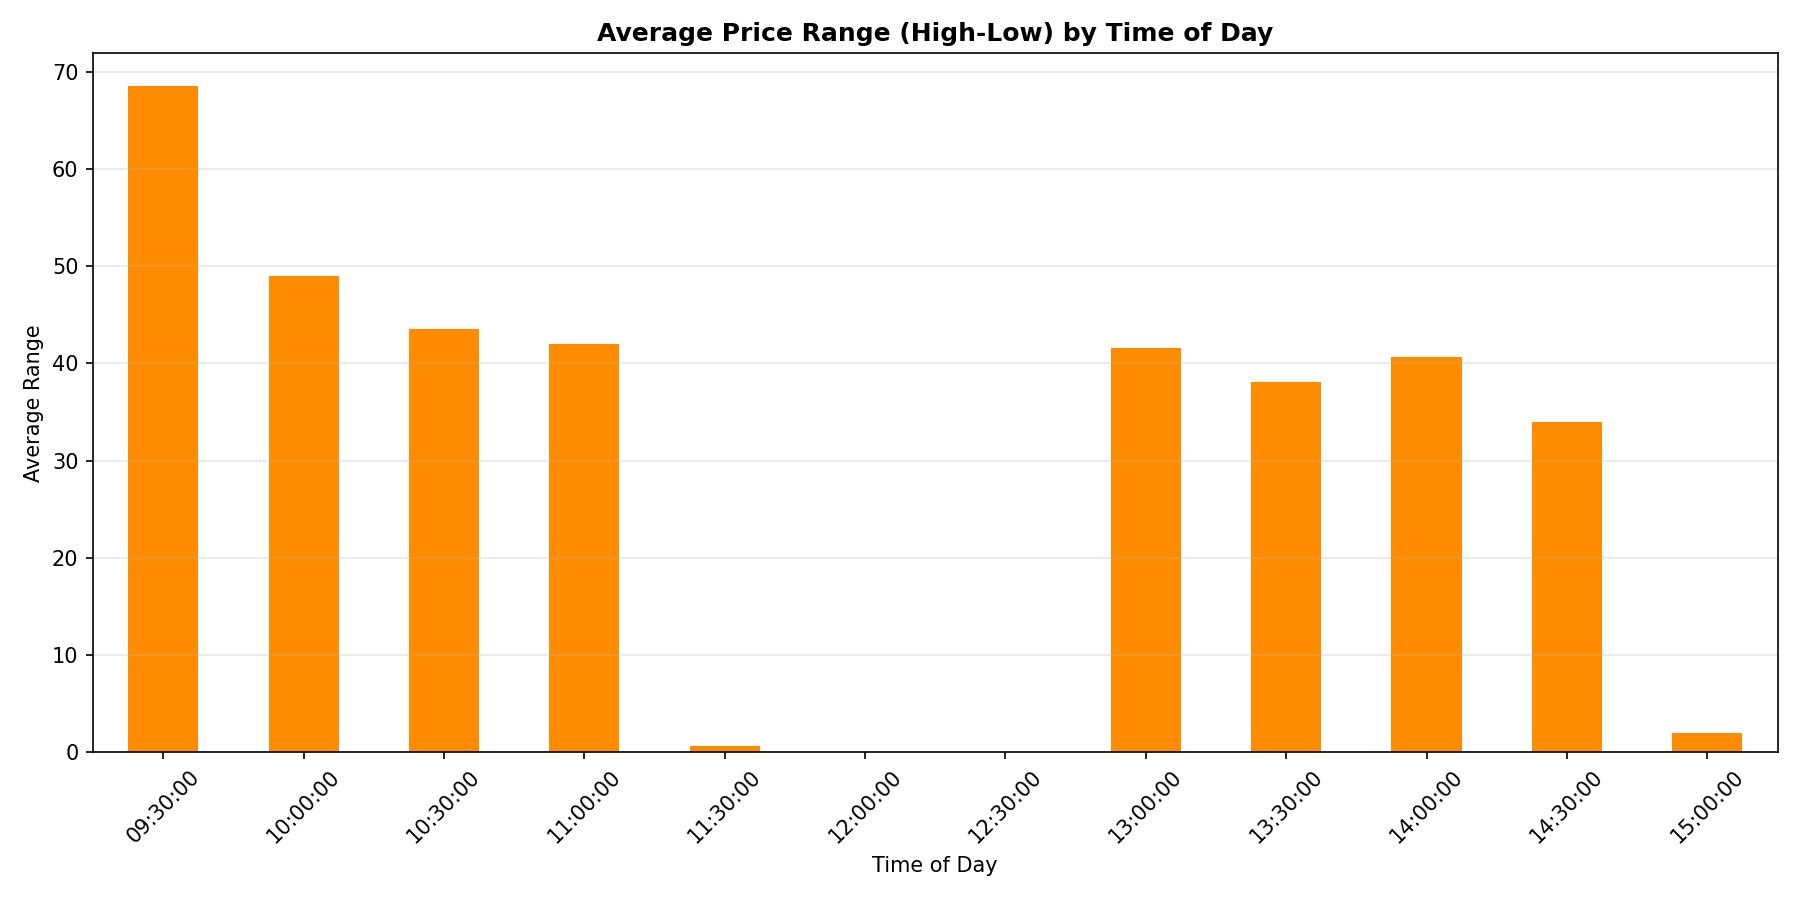
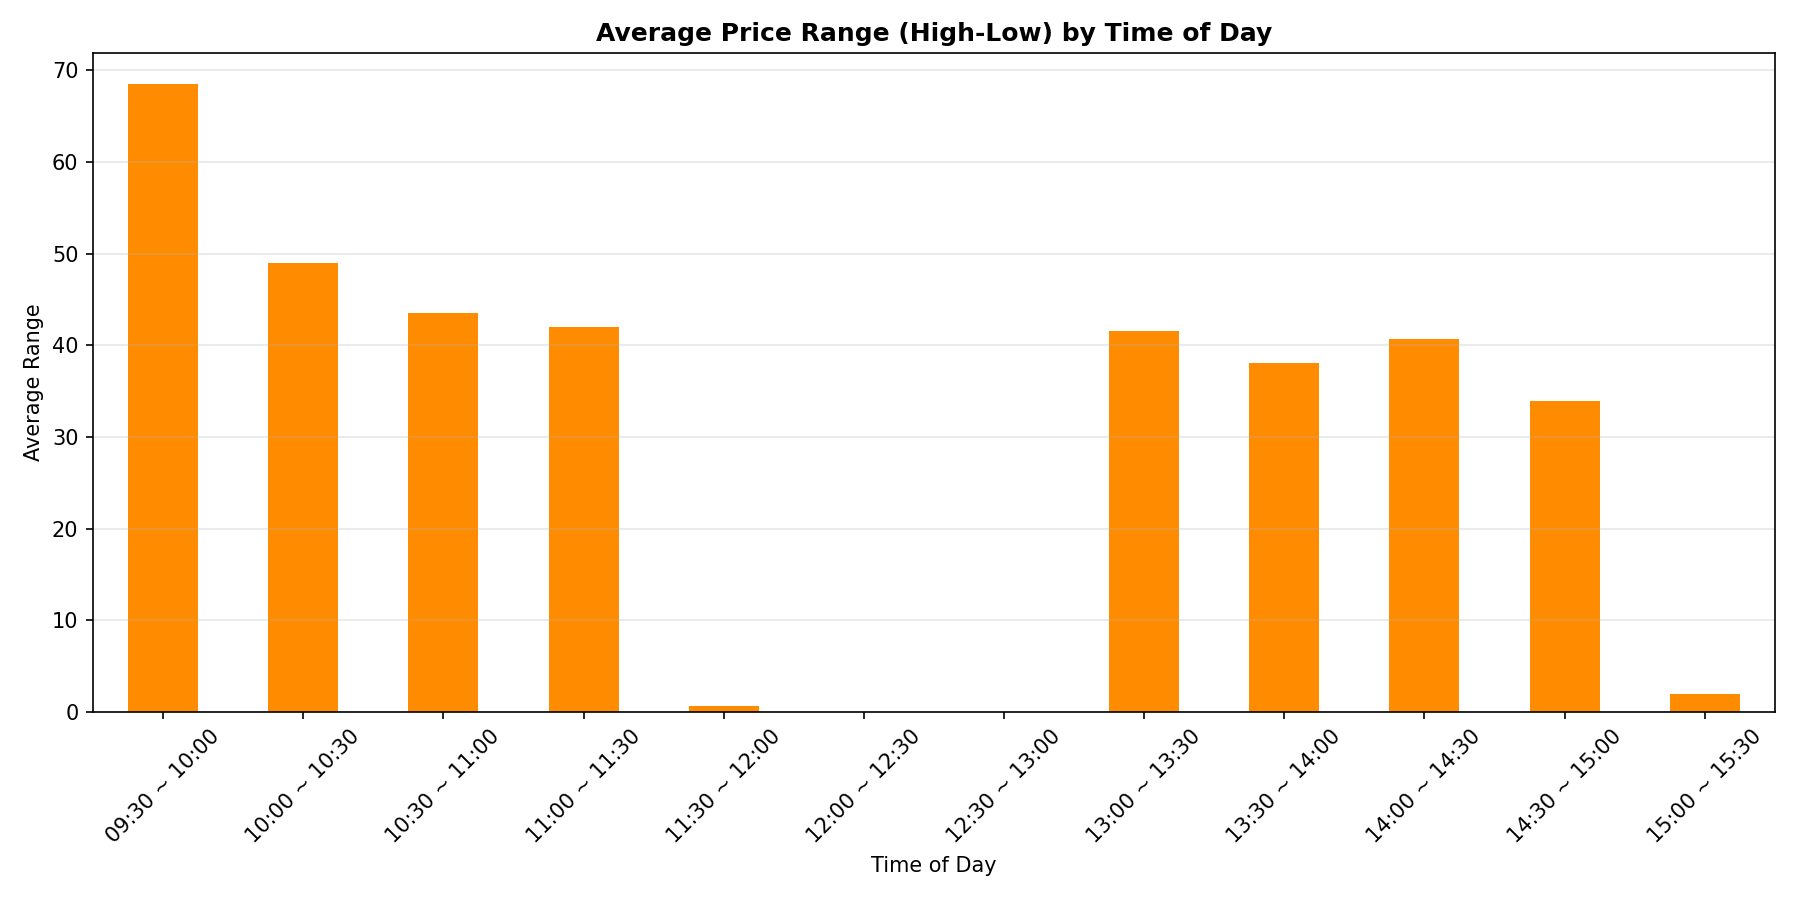
Process

diff --git a/generate_800_stats.py b/generate_800_stats.py
@@ -92,14 +92,32 @@ def analyze_high_low_bars(df):
     return results, pd.DataFrame(daily_stats)
 
 
-def plot_histogram_with_cdf(data, bins, range_min, range_max, color, title, xlabel, filename, out_dir):
+def plot_histogram_with_cdf(data, bins, range_min, range_max, color, title, xlabel, filename, out_dir, is_time=False):
     """Helper to plot histogram with cumulative distribution line."""
     fig, ax1 = plt.subplots(figsize=(12, 8))
     
     # Histogram
-    counts, _, _ = ax1.hist(data, bins=bins, range=(range_min, range_max), 
+    counts, bins_edges, _ = ax1.hist(data, bins=bins, range=(range_min, range_max), 
                            edgecolor='black', alpha=0.6, color=color, label='Frequency')
-    ax1.set_xlabel(xlabel)
+    
+    if is_time:
+        # Create time labels for the x-axis
+        # Standard day trading session is 9:30 to 16:00 (1-78 bars)
+        # Let's map bar numbers to time
+        ticks = []
+        labels = []
+        for i in range(1, int(range_max), max(1, int(range_max//15))):
+            ticks.append(i)
+            minute_of_day = 9 * 60 + 30 + (i - 1) * 5
+            hour = minute_of_day // 60
+            minute = minute_of_day % 60
+            labels.append(f"{hour:02d}:{minute:02d}")
+        ax1.set_xticks(ticks)
+        ax1.set_xticklabels(labels, rotation=45)
+        ax1.set_xlabel("Time")
+    else:
+        ax1.set_xlabel(xlabel)
+
     ax1.set_ylabel('Frequency', color=color)
     ax1.tick_params(axis='y', labelcolor=color)
     ax1.grid(alpha=0.3)
@@ -124,6 +142,7 @@ def plot_histogram_with_cdf(data, bins, range_min, range_max, color, title, xlab
     # Legends
     lines1, labels1 = ax1.get_legend_handles_labels()
     lines2, labels2 = ax2.get_legend_handles_labels()
+    # Add a workaround for legend on twin axes
     ax1.legend(lines1 + lines2, labels1 + labels2, loc='upper left')
     
     plt.tight_layout()
@@ -144,13 +163,13 @@ def plot_results(results, daily_stats_df, df, out_dir):
     high_bars = results['all']['high_bars']
     plot_histogram_with_cdf(high_bars, max_bars, 1, max_bars+1, 'green', 
                           'Distribution of Day High Occurrence (800)', 
-                          'Bar Number', 'high_dist.png', out_dir)
+                          'Time', 'high_dist.png', out_dir, is_time=True)
     
     # 2. Low Bar Distribution with CDF
     low_bars = results['all']['low_bars']
     plot_histogram_with_cdf(low_bars, max_bars, 1, max_bars+1, 'red', 
                           'Distribution of Day Low Occurrence (800)', 
-                          'Bar Number', 'low_dist.png', out_dir)
+                          'Time', 'low_dist.png', out_dir, is_time=True)
     
     # 3. First Extreme (Either High or Low) and Second Extreme (Both)
     fig, ax1 = plt.subplots(figsize=(12, 8))
@@ -161,9 +180,21 @@ def plot_results(results, daily_stats_df, df, out_dir):
              color='blue', label='First Extreme (Computed High OR Low)')
     ax1.hist(second_extreme, bins=max_bars, range=(1, max_bars+1), edgecolor='black', alpha=0.4, 
              color='orange', label='Second Extreme (Computed Both)')
-    ax1.set_xlabel('Bar Number')
     ax1.set_ylabel('Frequency')
     ax1.grid(alpha=0.3)
+
+    # Create time labels for the x-axis
+    ticks = []
+    labels = []
+    for i in range(1, int(max_bars+1), max(1, int((max_bars+1)//15))):
+        ticks.append(i)
+        minute_of_day = 9 * 60 + 30 + (i - 1) * 5
+        hour = minute_of_day // 60
+        minute = minute_of_day % 60
+        labels.append(f"{hour:02d}:{minute:02d}")
+    ax1.set_xticks(ticks)
+    ax1.set_xticklabels(labels, rotation=45)
+    ax1.set_xlabel("Time")
     
     ax2 = ax1.twinx()
     sorted_first = np.sort(first_extreme)
@@ -211,7 +242,7 @@ def plot_results(results, daily_stats_df, df, out_dir):
     
     # 5. Opening Gap Distribution
     gaps = daily_stats_df['gap_pct'].dropna()
-    plot_histogram_with_cdf(gaps, 50, -3, 3, 'purple', 
+    plot_histogram_with_cdf(gaps, 50, -5, 5, 'purple', 
                           'Opening Gap Distribution (800)', 
                           'Gap %', 'gap_dist.png', out_dir)
     

diff --git a/liquidity_study.py b/liquidity_study.py
@@ -24,8 +24,35 @@ def load_data(filepath):
 def generate_liquidity_charts(df, out_dir):
     os.makedirs(out_dir, exist_ok=True)
     
-    # Group by time of day
-    time_group = df.groupby('time_of_day')
+    # Helper to clean up the index labels
+    def format_time_labels(index_obj):
+        labels = []
+        for t in index_obj:
+            # Assuming 5 min intervals
+            start_m = t.hour * 60 + t.minute
+            end_m = start_m + 30 # Grouping to 30 min intervals, wait 30 min? User said 9:30 ~ 10:00 etc. 
+            # actually time is 5min bars so we probably should just do t + 30 min, actually user said "replace the 9:30:00 with 9:30 ~ 10:00 etc."
+            # Since the data is already grouped by time_of_day (every 5 min)
+            # wait, if the original labels are 9:30:00, 9:35:00 etc., it's 5 min bins. 
+            # I will just format the label to '{t.hour}:{t.minute:02d} ~ {later}' where later is +30min? Or +5min? Since data is 5 min bins 
+            # Ah user said "replace the 9:30:00 with 9:30 ~ 10:00 etc", which implies aggregating by 30 mins to make it 9:30~10:00! Let's resample by 30min? No, just formatting the labels from the 30M resample. Let's group by 30m!
+            pass # wait, I need to group by 30m first, otherwise there are 78 bars. 
+            
+    # Group by 30 minute intervals of time_of_day
+    # To do this correctly, let's map time_of_day to 30 min buckets
+    def to_30m_bucket(t):
+        minute = t.hour * 60 + t.minute
+        # 9:30 is 570.
+        if minute < 570: return "Pre-mkt"
+        bucket_idx = (minute - 570) // 30
+        start_min = 570 + bucket_idx * 30
+        end_min = start_min + 30
+        return f"{start_min//60:02d}:{start_min%60:02d} ~ {end_min//60:02d}:{end_min%60:02d}"
+
+    df['time_bucket'] = df['time_of_day'].apply(to_30m_bucket)
+    # Remove pre-market if any
+    df_filtered = df[df['time_bucket'] != "Pre-mkt"]
+    time_group = df_filtered.groupby('time_bucket')
     
     # 1. Average Volume by Time of Day
     avg_vol = time_group['Volume'].mean()
